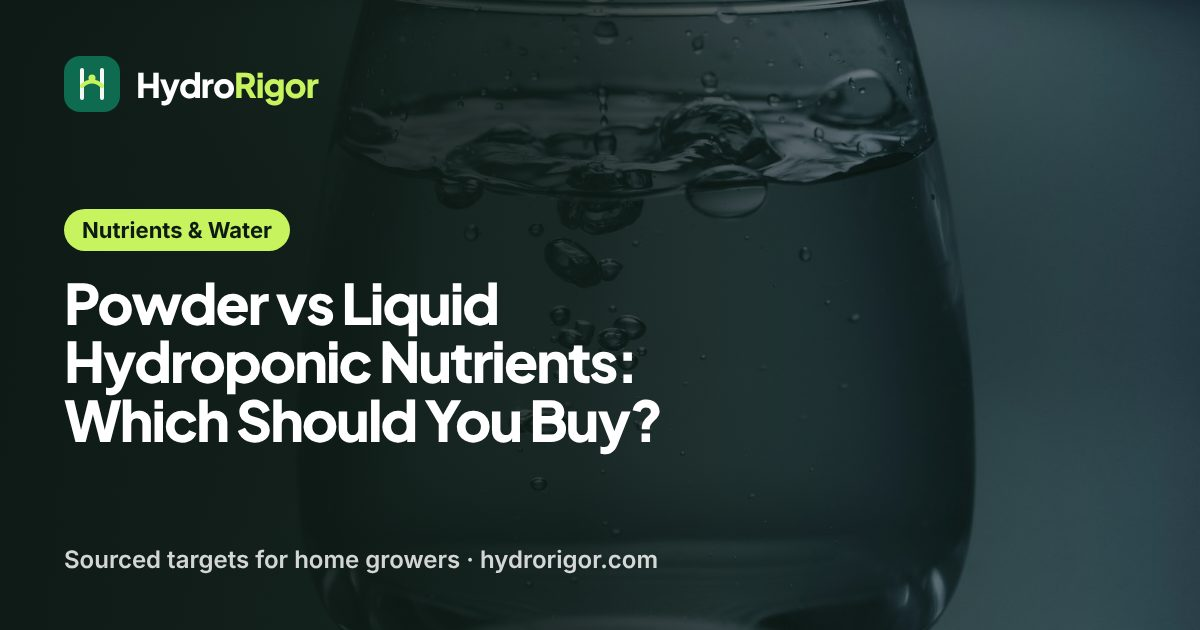
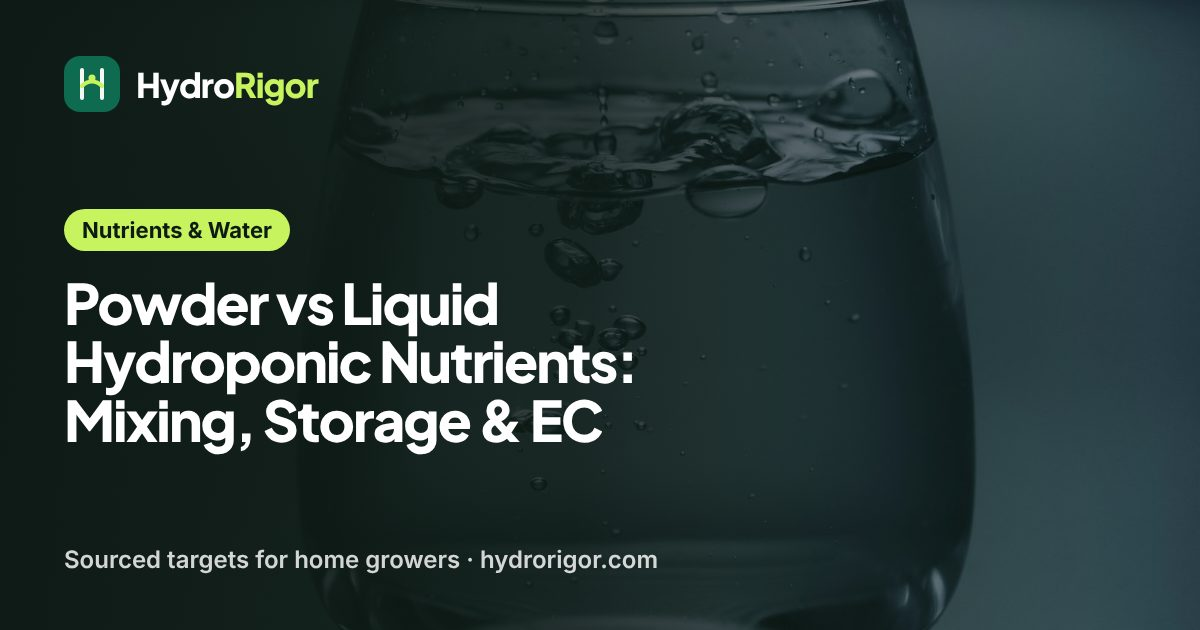
Rebuild powder vs liquid hydroponic nutrients: mixing, storage and EC (#80)
Claude-Session: https://claude.ai/code/session_011zSWQt7uG7c6zsLFH5E8Nb

Changed region(s): [[0.0308, 0.6333, 0.555, 0.7238]]

diff --git a/src/data/m06-content.ts b/src/data/m06-content.ts
@@ -34,7 +34,7 @@ const items = [
   [14, 'articles', 'nutrients', 'Hydroponic Nutrient Solution: ppm, EC, pH & When to Change', 'hydroponic-nutrient-solution', 'transactional research', 'hydroponic nutrients solution', 'VERIFIED_2026-09-12', 720, 25, ['mu-nutrient-solutions', 'psu-nutrient-programs', 'psu-plant-nutrition', 'osu-ph-ec-guide', 'ifas-hydroponic-tomato-formulation', 'ohio-state-tomato-nutrient-solution', 'tennessee-fruiting-crops', 'uky-hydroponic-lettuce', 'uky-monitoring-ph-ec', 'ifas-lettuce-small-systems', 'vt-system-crop-comparisons', 'sato-modified-nft-2007', 'gomez-basil-small-scale-2020', 'ua-strawberry-irrigation', 'msstate-tomato-ph', 'msu-calibrate-ph-ec'], ['/tools/ph-ec-targets/', '/tools/nutrient-mixing-calculator/']],
   [15, 'articles', 'nutrients', 'Organic Hydroponic Nutrients: Yields, Problems & Fixes', 'organic-hydroponic-nutrients', 'transactional research', 'hydroponic nutrients organic', 'VERIFIED_2026-09-12', 590, 20, ['usda-organic-certification', 'psu-organic-nutrient-study', 'liu-organic-nft-lettuce-2025', 'wortman-vertical-strawberry-2016', 'purdue-lettuce-ec-ho309', 'mu-nutrient-solutions'], []],
   [16, 'articles', 'best', 'Best Hydroponic Nutrients for Home Growers', 'hydroponic-nutrients-for-home-growers', 'commercial research', 'best hydroponic nutrients', 'METRIC_NOT_REVERIFIED', undefined, undefined, ['psu-nutrient-programs', 'mu-nutrient-solutions', 'psu-plant-nutrition'], ['/tools/nutrient-mixing-calculator/']],
-  [17, 'articles', 'nutrients', 'Powder vs Liquid Hydroponic Nutrients: Which Should You Buy?', 'powder-vs-liquid-hydroponic-nutrients', 'commercial research', 'hydroponic nutrients powder', 'METRIC_NOT_REVERIFIED', undefined, undefined, ['psu-nutrient-programs', 'mu-nutrient-solutions'], ['/tools/nutrient-mixing-calculator/']],
+  [17, 'articles', 'nutrients', 'Powder vs Liquid Hydroponic Nutrients: Mixing, Storage & EC', 'powder-vs-liquid-hydroponic-nutrients', 'commercial research', 'hydroponic nutrients powder', 'METRIC_NOT_REVERIFIED', undefined, undefined, ['msstate-fluid-fertilizers', 'purdue-fertilizer-mixing-tips', 'psu-nutrient-programs', 'mu-nutrient-solutions', 'ohio-state-tomato-nutrient-solution', 'masterblend-mixing-instructions', 'gh-floraseries-program', 'osu-ph-ec-guide', 'ifas-lettuce-small-systems', 'tennessee-fruiting-crops', 'msu-calibrate-ph-ec'], ['/tools/nutrient-mixing-calculator/']],
   [18, 'articles', 'nutrients', 'Hydroponic Nutrients for Vegetables: A Feeding Guide', 'hydroponic-nutrients-for-vegetables', 'transactional research', 'hydroponic nutrients vegetables', 'METRIC_NOT_REVERIFIED', undefined, undefined, ['psu-plant-nutrition', 'mu-nutrient-solutions', 'vt-system-crop-comparisons'], ['/tools/ph-ec-targets/', '/tools/nutrient-mixing-calculator/']],
   [19, 'articles', 'nutrients', 'Hydroponic Nutrients for Tomatoes: EC, pH & Feeding by Stage', 'hydroponic-nutrients-for-tomatoes', 'informational', 'hydroponic tomatoes nutrient solution', 'VERIFIED_2026-09-12', 170, 18, ['ifas-hydroponic-tomato-formulation', 'tennessee-fruiting-crops', 'ohio-state-tomato-nutrient-solution', 'psu-nutrient-programs', 'osu-ph-ec-guide', 'uky-monitoring-ph-ec', 'msstate-tomato-ph', 'msstate-tomato-fertilizer', 'msstate-blossom-end-rot', 'ifas-volusia-dwc-bucket'], ['/tools/ph-ec-targets/', '/tools/nutrient-mixing-calculator/']],
   [20, 'articles', 'nutrients', 'How to Mix Hydroponic Nutrients: Order, Rates & EC Check', 'how-to-mix-hydroponic-nutrients', 'informational', 'mixing hydroponic nutrients', 'METRIC_NOT_REVERIFIED', undefined, undefined, ['mu-nutrient-solutions', 'psu-nutrient-programs', 'osu-ph-ec-guide', 'ohio-state-tomato-nutrient-solution', 'masterblend-mixing-instructions', 'gh-floraseries-program', 'ifas-lettuce-small-systems', 'purdue-lettuce-ec-ho309', 'tennessee-fruiting-crops', 'uky-hydroponic-lettuce', 'psu-plant-nutrition', 'msu-calibrate-ph-ec'], ['/tools/nutrient-mixing-calculator/', '/tools/ph-ec-targets/']],

diff --git a/src/data/editorial-sources/m06.ts b/src/data/editorial-sources/m06.ts
@@ -10,6 +10,24 @@ export interface M06EditorialSource {
 
 export const m06EditorialSources = [
   {
+    id: 'msstate-fluid-fertilizers',
+    title: 'Fluid Fertilizers (P1466)',
+    publisher: 'Mississippi State University Extension (L. Oldham; reviewed by C. Bryant)',
+    url: 'https://extension.msstate.edu/publications/fluid-fertilizers',
+    accessedDate: '2026-11-16',
+    sourceType: 'university-extension',
+    locator: 'P1466 (web revision POD-10-23; PDF POD-06-20). Introduction: properly applied, fluid fertilizers "are no more or less efficient than dry fertilizers"; easy to handle, moved by pump, usually less labor. Common Solution Fertilizers: "no more than 11 percent potash will go into solution, and 9 percent is more practical to manufacture"; 32-0-0 UAN weighs 11.06 lb/gal and "salts out (solids separate from the liquid) at 32°F"; 28-0-0-5 salts out at about 0 °F; true solution fertilizers "can be stored as long as the temperature stays above freezing"; suspensions settle and should be applied the day they are blended. Summary: "no agronomic difference in the efficiency of liquid and dry fertilizers, so use the same rate of nutrients from either source". Field-crop publication; no cost-per-nutrient figure (read 2026-11-16)',
+  },
+  {
+    id: 'purdue-fertilizer-mixing-tips',
+    title: 'Taking Care of Plant Nutrition in Your High Tunnel – Fertilizer and Nutrient Solution Mixing Tips',
+    publisher: 'Purdue Extension, Vegetable Crops Hotline issue 630 (P. Langenhoven), June 22, 2017',
+    url: 'https://vegcropshotline.org/article/taking-care-of-plant-nutrition-in-your-high-tunnel-fertilizer-and-nutrient-solution-mixing-tips/',
+    accessedDate: '2026-11-16',
+    sourceType: 'university-extension',
+    locator: 'Developing a nutrient program: premixed fertilizer "might be perfect for beginner growers"; experienced growers can calculate their own formulations; compound blends developed for calcium-rich water may need calcium nitrate or magnesium sulfate added. Key Fertilizer Characteristics and Nutrient Solution Mixing Tips: check maximum solubility; lukewarm to hot water speeds dissolution; stir while mixing; use accurate scales; stock solution pH below 5 so all fertilizers dissolve; chelates break down at pH 3.5 or lower; most small greenhouse operations use 25 to 50 gallon stock tanks, usually two (calcium, iron and half the potassium nitrate in one); calcium, phosphorus and sulfate sources must not be mixed (calcium phosphate, calcium sulfate precipitates); a few hours for the solution to clear, sludge from anti-caking and anti-dust additives to rinse out; keep solution dark, protect chelates from daylight, replace chelates after disinfection (read 2026-11-16)',
+  },
+  {
     id: 'mu-hydroponic-farming',
     title: 'Controlled Environment Agriculture: Hydroponic Farming',
     publisher: 'University of Missouri Extension',

diff --git a/.agent/state/CURRENT_HANDOFF.md b/.agent/state/CURRENT_HANDOFF.md
@@ -1,6 +1,6 @@
 # Current Handoff
 
-Updated: 2026-11-15
+Updated: 2026-11-16
 
 ## State
 
@@ -88,6 +88,7 @@ Updated: 2026-11-15
 Guides published by automated runs under `HydroRigor Editorial`. When Najeeb has read one
 and approves, switch its byline to `Najeeb`.
 
+- `/nutrients-water/powder-vs-liquid-hydroponic-nutrients/` — "Powder vs Liquid Hydroponic Nutrients: Mixing, Storage & EC" (rebuild, 2026-11-16; Pinterest row `docs/marketing/pinterest/pins-powder-vs-liquid-2026-12-05.csv`, upload by Dec 5). Direct answer (same plant response at the same nutrient rate, Mississippi State P1466; liquid for one small reservoir, powder for 5 gal+ with a 0.1 g scale), KeyTargets card, quick-answer table, format comparison table, why liquids hold less nutrient (potash about 11% in solution; Penn State solubility), weighing-error table and chart (labelled arithmetic from Masterblend's 1.5 g/gal Epsom rate), dissolving (Purdue warm water versus Oklahoma State/UF/IFAS root-zone temperature shown as a conflict), separate parts for both formats, making your own two-tank stocks (Penn State, Purdue, Ohio State), ten steps, troubleshooting and FAQ; two new diagrams (decision card; scale error). New sources read 2026-11-16: Mississippi State Extension P1466 Fluid Fertilizers (a field-crop publication; the page says so) and Purdue Vegetable Crops Hotline mixing tips (Langenhoven, 2017). The General Hydroponics, Masterblend, Kentucky jar-test and Yara pages could not be opened in this run (fetch permission timed out), so liquid label rates in mL, guaranteed analyses and dry-storage humidity figures are not on the page; no shelf life or cost-per-gallon figure is given because no source states one. Photo kept (water pouring into a glass).
 - `/nutrients-water/how-to-mix-hydroponic-nutrients/` — "How to Mix Hydroponic Nutrients: Order, Rates & EC Check" (rebuild, 2026-11-15; Pinterest row `docs/marketing/pinterest/pins-how-to-mix-2026-12-04.csv`, upload by Dec 4). Direct answer (water first, one part at a time, calcium last or in its own tank, EC then pH), quick-answer table, six-step order, three ways to make a solution (Penn State), Masterblend per-gallon rate table with liters and labelled 5-gallon arithmetic, two-tank 100X stock example (Ohio State HYG-1437 Table 4), source-water limits, Oklahoma State EC and pH correction steps, ten-step batch, troubleshooting and FAQ; three new diagrams (mixing order; two stock tanks; EC by crop). Sources re-read 2026-11-15 and locators extended: Penn State programs page (verbatim check), Oklahoma State HLA-6722, Ohio State HYG-1437, Masterblend instructions, General Hydroponics FloraSeries mixing notes (order only; its stage feed charts were not used). Conflicts shown: lettuce pH (Oklahoma State 6.0–7.0 vs Kentucky 5.5–6.0), lettuce EC (UF/IFAS 1.2–1.8 vs Purdue 1.3), tomato EC (Oklahoma State 2.0–4.0 vs Tennessee 2.0–3.0), solution temperature, replacement interval. No ppm-scale conversion is given because no registered source states one. Photo kept (measuring beaker).
 
 

diff --git a/.agent/state/CURRENT_MILESTONE.md b/.agent/state/CURRENT_MILESTONE.md
@@ -91,8 +91,8 @@ impressions in 28 days).
 21. [x] `/systems/smart-indoor-hydroponic-systems/` — rebuilt 2026-11-15 ("Smart Indoor Hydroponic Systems: Light, Crops & Upkeep"); no brands or product picks
         ("click and grow" 5,400 / 35 is the nearest brand demand; add named units only if Click & Grow approves the owner).
 22. [ ] Remaining launch-guide rebuilds, one per run: ~~`/nutrients-water/how-to-mix-hydroponic-nutrients/`~~
-        (rebuilt 2026-11-15, "How to Mix Hydroponic Nutrients: Order, Rates & EC Check"; "mixing hydroponic nutrients" 140 / 19), `/nutrients-water/powder-vs-liquid-hydroponic-nutrients/`
-        ("hydroponic nutrients powder" 170 / 19), `/nutrients-water/hydroponic-nutrients-for-vegetables/`
+        (rebuilt 2026-11-15, "How to Mix Hydroponic Nutrients: Order, Rates & EC Check"; "mixing hydroponic nutrients" 140 / 19), ~~`/nutrients-water/powder-vs-liquid-hydroponic-nutrients/`~~
+        (rebuilt 2026-11-16, "Powder vs Liquid Hydroponic Nutrients: Mixing, Storage & EC"; "hydroponic nutrients powder" 170 / 19), `/nutrients-water/hydroponic-nutrients-for-vegetables/`
         ("hydroponic nutrients vegetables" 140 / 15), `/best/indoor-hydroponic-system-kits/`,
         `/best/hydroponic-nutrients-for-home-growers/` ("best hydroponic nutrients" 260 / 20),
         `/reviews/masterblend-hydroponic-nutrients/` ("masterblend hydroponic nutrients" 210 / 22),
